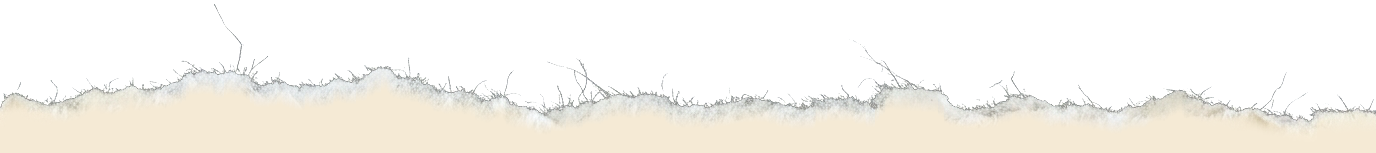
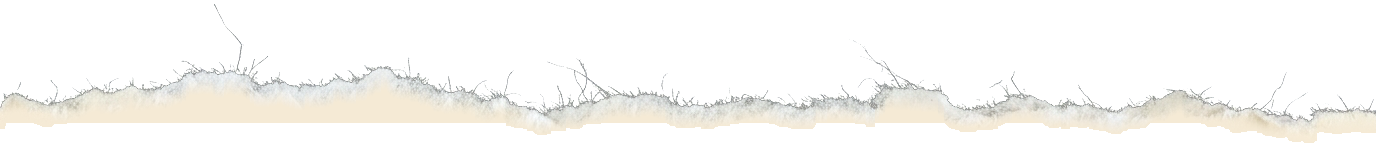
Torn edge: the Flow photos run on into the cream, no line where they met it
Andrew, 2026-10-06: "you can see the horizontal cream line over the ripped
parts it doesn't blend into the flow image cleanly".

The photo was cut at the hero's edge. Where the tear came low, its white
core and its cream carried on below that line, so they stopped there in a
straight line, and the photo's cream met the body's flat cream along it.

Now the photo runs on below the line into the body, and the bake leaves its
flat cream clear there. The core and the cream fade into the page's along
the tear's own shape. Its shadows are clipped to above the line, so the
paper's lower edge casts none onto the body.

Both sides are laid by the photo's deepest point. Any shallower start put
every deeper stretch of the tear below the hero's edge, which showed as the
same kind of straight line: the bold photo's left side started 8 px
shallower. That side now starts on another low point within 2 px of the
deepest, which leaves it under a pixel above the line at the note, under
the post-it.

Changed region(s): [[0.0, 0.7843, 1.0, 1.0]]

diff --git a/src/app/landing/TornEdge.tsx b/src/app/landing/TornEdge.tsx
@@ -69,16 +69,17 @@ export function TornEdge() {
   );
 }
 
-/** A half's SVG: from the note's side outward, the line at y 0, clipped just
- *  under it (the body's own cream is below). */
-function HalfSvg({ side, height, children }: { side: Side; height: number; children: React.ReactNode }) {
+/** A half's SVG: from the note's side outward, the line at y 0, `height`
+ *  above it and `below` under it - just a pixel for the drawn rip, whose
+ *  paper below the line is the body's own cream. */
+function HalfSvg({ side, height, below = 1, children }: { side: Side; height: number; below?: number; children: React.ReactNode }) {
   return (
     <svg
       className={`${styles.tornEdge} ${side === "left" ? styles.tornEdgeLeft : styles.tornEdgeRight}`}
       style={{ top: -height }}
       width={TORN_LENGTH}
-      height={height + 1}
-      viewBox={`0 ${-height} ${TORN_LENGTH} ${height + 1}`}
+      height={height + below}
+      viewBox={`0 ${-height} ${TORN_LENGTH} ${height + below}`}
       aria-hidden="true"
       focusable="false"
     >
@@ -146,6 +147,10 @@ function FlowHalf({ side, photo, scale, shadow }: { side: Side; photo: FlowKey; 
   // apart), the paper's top there on the line.
   const start = p[side];
   const height = Math.ceil(p.reach * scale) + 30;
+  // The photo runs on below the line, into the body's cream (the bake leaves
+  // its flat cream there clear): cut at the line, its white core and cream
+  // stopped in a straight line wherever the tear came low.
+  const below = Math.ceil((p.height - start.y) * scale) + 1;
   const id = `torn-${photo}-${side}`;
   // The photo, then itself mirrored, then itself again: it runs on unbroken,
   // each copy meeting the last at the same column. Laid as images, not as a
@@ -154,10 +159,27 @@ function FlowHalf({ side, photo, scale, shadow }: { side: Side; photo: FlowKey; 
   const w = p.width * scale;
   const copies: Array<{ x: number; flipped: boolean }> = [];
   for (let i = 0; (i * p.width - start.x) * scale < TORN_LENGTH; i++) copies.push({ x: (i * p.width - start.x) * scale, flipped: i % 2 === 1 });
+  const images = copies.map(({ x, flipped }) => (
+    <image
+      key={x}
+      href={p.src}
+      x={flipped ? undefined : x}
+      y={-start.y * scale}
+      width={w}
+      height={p.height * scale}
+      preserveAspectRatio="none"
+      transform={flipped ? `translate(${x + w} 0) scale(-1 1)` : undefined}
+    />
+  ));
   return (
-    <HalfSvg side={side} height={height}>
+    <HalfSvg side={side} height={height} below={below}>
       <defs>
-        {/* Its shadows, cast from its own outline - fibres and all. */}
+        {/* Its shadows, cast from its own outline - fibres and all - and
+            only on the hero: the paper's lower edge, under the line, casts
+            none onto the body. */}
+        <clipPath id={`${id}-above`}>
+          <rect x={-20} y={-height - 20} width={TORN_LENGTH + 40} height={height + 20} />
+        </clipPath>
         <filter id={id} {...regionOf(height)}>
           {SHADOWS.map(([name, up, blur, opacity]) => [
             <feGaussianBlur key={`${name}-b`} in="SourceAlpha" stdDeviation={blur} result={`${name}-b`} />,
@@ -169,25 +191,14 @@ function FlowHalf({ side, photo, scale, shadow }: { side: Side; photo: FlowKey; 
             {SHADOWS.map(([name]) => (
               <feMergeNode key={name} in={`${name}-s`} />
             ))}
-            <feMergeNode in="SourceGraphic" />
           </feMerge>
         </filter>
       </defs>
       <g transform={outward(side)}>
-        <g filter={`url(#${id})`}>
-          {copies.map(({ x, flipped }) => (
-            <image
-              key={x}
-              href={p.src}
-              x={flipped ? undefined : x}
-              y={-start.y * scale}
-              width={w}
-              height={p.height * scale}
-              preserveAspectRatio="none"
-              transform={flipped ? `translate(${x + w} 0) scale(-1 1)` : undefined}
-            />
-          ))}
+        <g clipPath={`url(#${id}-above)`}>
+          <g filter={`url(#${id})`}>{images}</g>
         </g>
+        {images}
       </g>
     </HalfSvg>
   );
